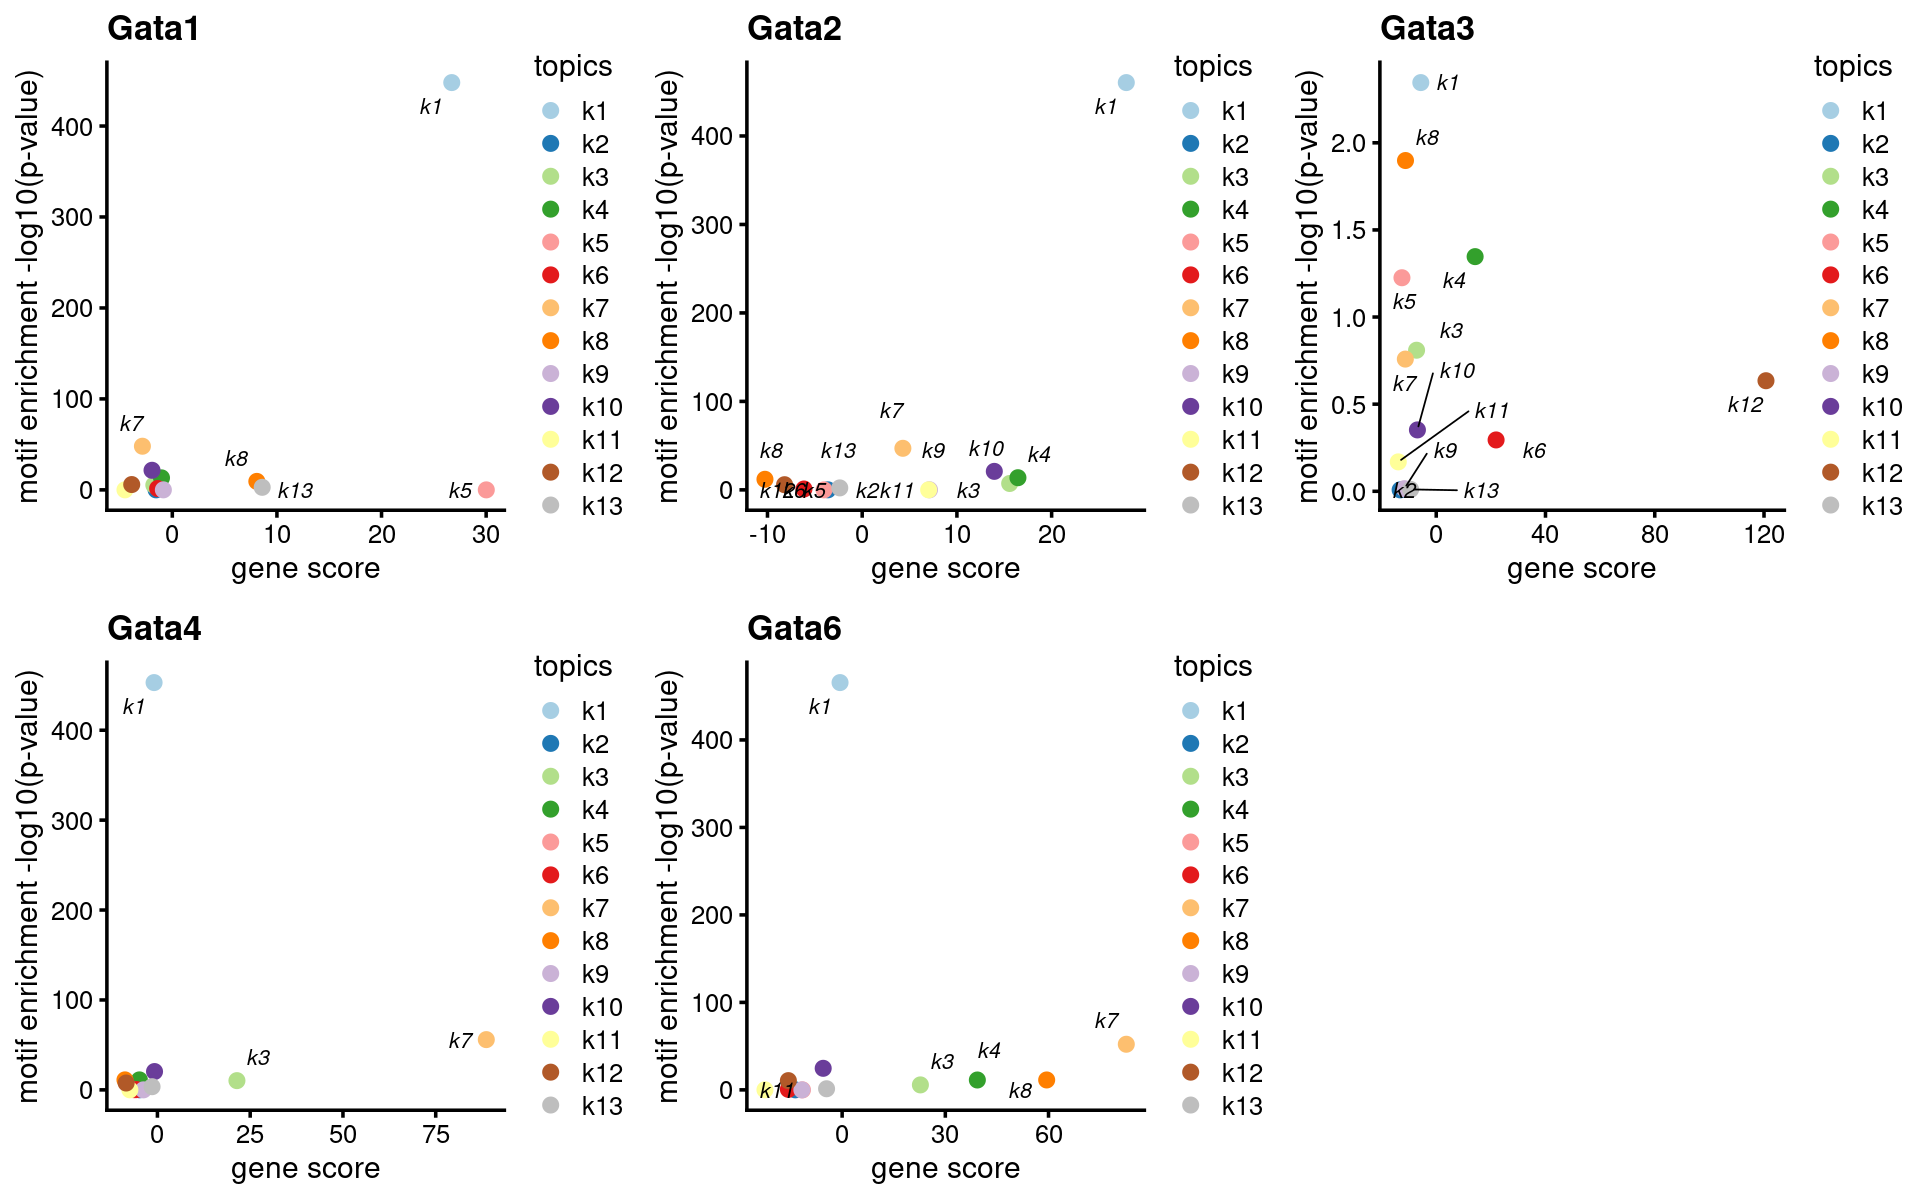
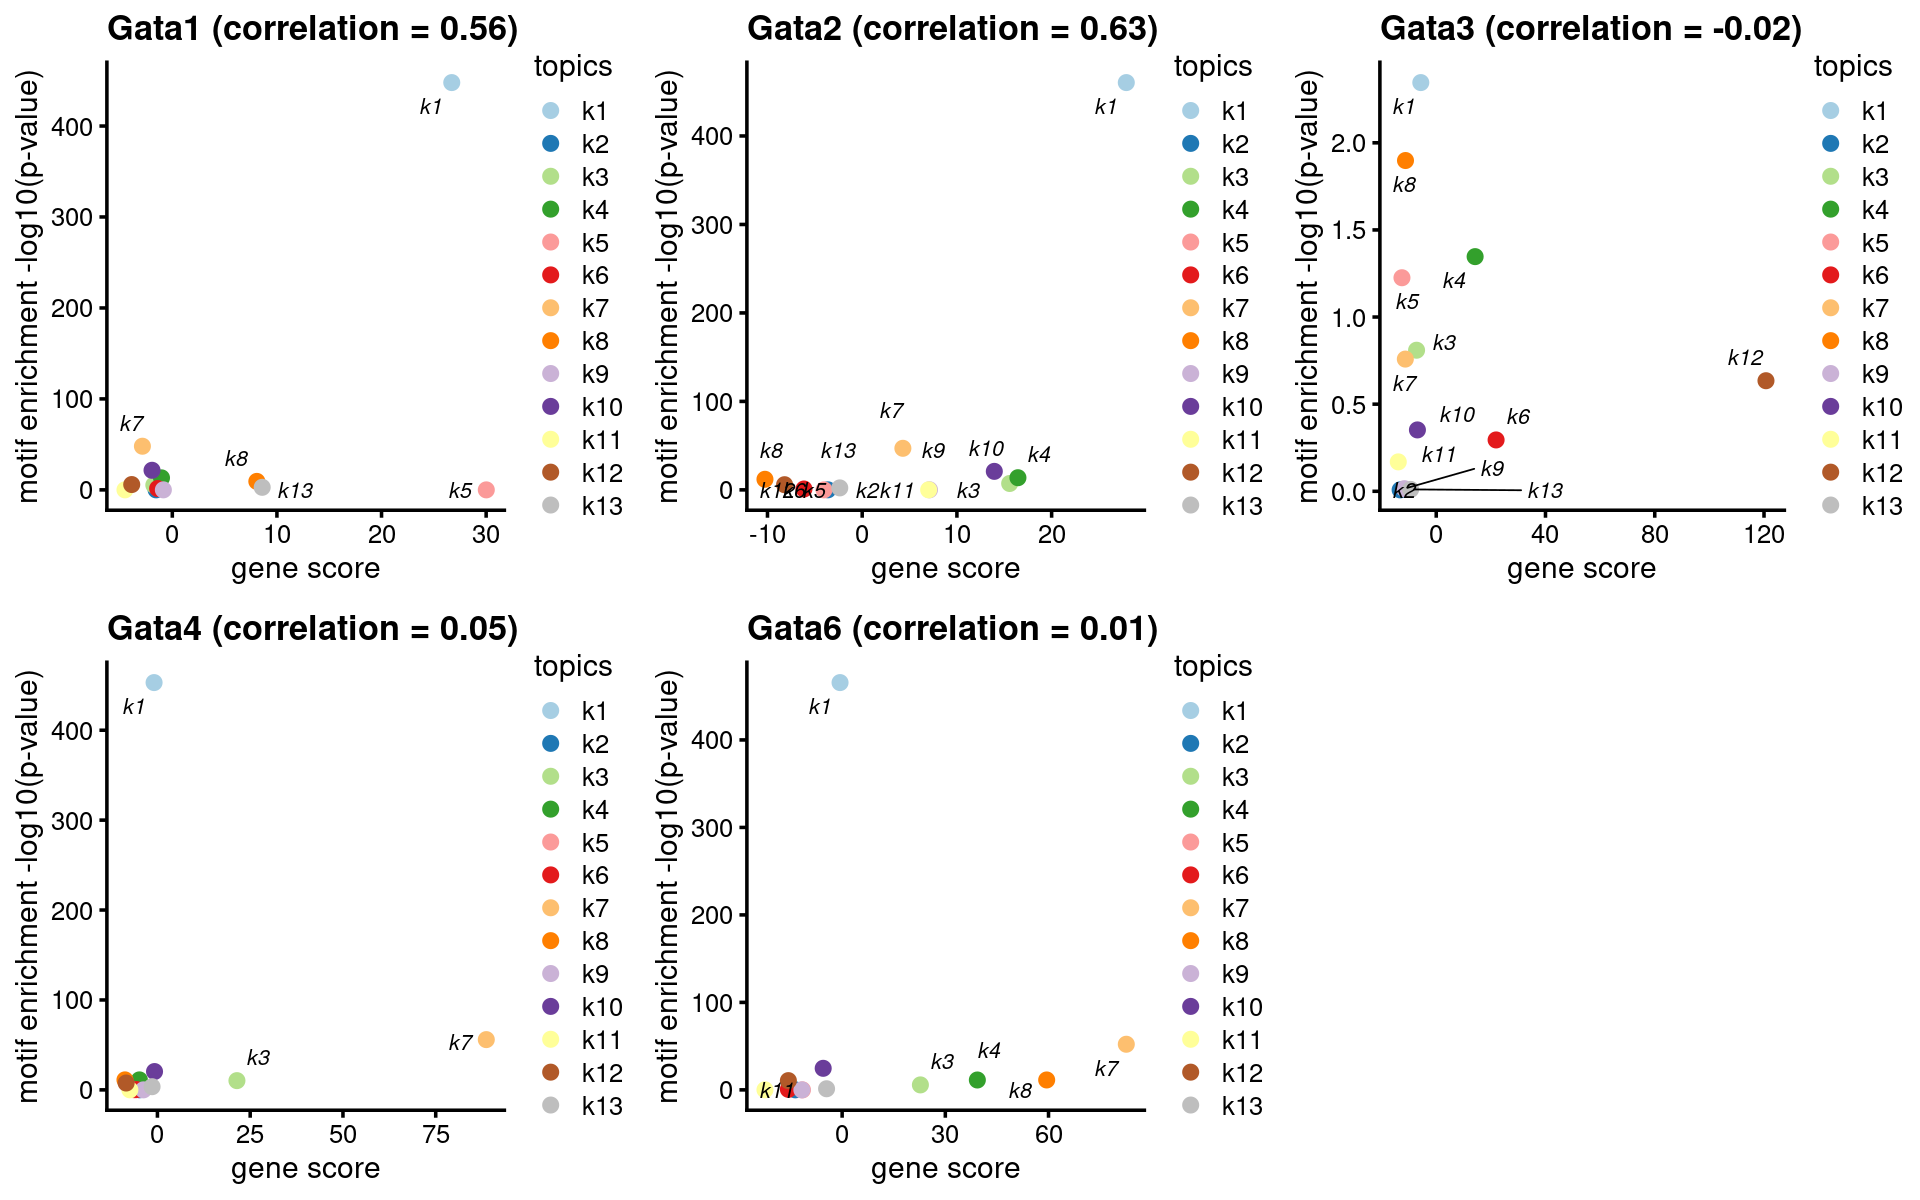
Build site.

diff --git a/docs/motif_analysis_Cusanovich2018.html b/docs/motif_analysis_Cusanovich2018.html
@@ -444,16 +444,16 @@ This reproducible <a href="http://rmarkdown.rstudio.com">R Markdown</a> analysis
 <div class="panel panel-default">
 <div class="panel-heading">
 <p class="panel-title">
-<a data-toggle="collapse" data-parent="#workflowr-checks" href="#strongRepositoryversionstrongahrefhttpsgithubcomstephenslabscATACseqtopicstreec9d674286d289488c47518606b422b0d901dde39targetblankc9d6742a"> <span class="glyphicon glyphicon-ok text-success" aria-hidden="true"></span> <strong>Repository version:</strong> <a href="https://github.com/stephenslab/scATACseq-topics/tree/c9d674286d289488c47518606b422b0d901dde39" target="_blank">c9d6742</a> </a>
+<a data-toggle="collapse" data-parent="#workflowr-checks" href="#strongRepositoryversionstrongahrefhttpsgithubcomstephenslabscATACseqtopicstree4458ed5bf26503cb8cc53fb412abe62d96fd56e5targetblank4458ed5a"> <span class="glyphicon glyphicon-ok text-success" aria-hidden="true"></span> <strong>Repository version:</strong> <a href="https://github.com/stephenslab/scATACseq-topics/tree/4458ed5bf26503cb8cc53fb412abe62d96fd56e5" target="_blank">4458ed5</a> </a>
 </p>
 </div>
[2 lines of base64/hex data omitted]
 <div class="panel-body">
 <p>
 Great! You are using Git for version control. Tracking code development and connecting the code version to the results is critical for reproducibility.
 </p>
 <p>
-The results in this page were generated with repository version <a href="https://github.com/stephenslab/scATACseq-topics/tree/c9d674286d289488c47518606b422b0d901dde39" target="_blank">c9d6742</a>. See the <em>Past versions</em> tab to see a history of the changes made to the R Markdown and HTML files.
+The results in this page were generated with repository version <a href="https://github.com/stephenslab/scATACseq-topics/tree/4458ed5bf26503cb8cc53fb412abe62d96fd56e5" target="_blank">4458ed5</a>. See the <em>Past versions</em> tab to see a history of the changes made to the R Markdown and HTML files.
 </p>
 <p>
 Note that you need to be careful to ensure that all relevant files for the analysis have been committed to Git prior to generating the results (you can use <code>wflow_publish</code> or <code>wflow_git_commit</code>). workflowr only checks the R Markdown file, but you know if there are other scripts or data files that it depends on. Below is the status of the Git repository when the results were generated:
@@ -531,6 +531,40 @@ Message
 </tr>
 </thead>
 <tbody>
+<tr>
+<td>
+Rmd
+</td>
+<td>
+<a href="https://github.com/stephenslab/scATACseq-topics/blob/4458ed5bf26503cb8cc53fb412abe62d96fd56e5/analysis/motif_analysis_Cusanovich2018.Rmd" target="_blank">4458ed5</a>
+</td>
+<td>
+kevinlkx
+</td>
+<td>
+2021-01-20
+</td>
+<td>
+added KLF/SP genes and added an option to compute correlation using -log10P
+</td>
+</tr>
+<tr>
+<td>
+html
+</td>
+<td>
+<a href="https://rawcdn.githack.com/stephenslab/scATACseq-topics/1fb78db56c388834bd95c571a4a3c8d6f631579e/docs/motif_analysis_Cusanovich2018.html" target="_blank">1fb78db</a>
+</td>
+<td>
+kevinlkx
+</td>
+<td>
+2021-01-20
+</td>
+<td>
+Build site.
+</td>
+</tr>
 <tr>
 <td>
 Rmd
@@ -939,6 +973,17 @@ Date
 <tbody>
 <tr>
 <td>
+<a href="https://github.com/stephenslab/scATACseq-topics/blob/1fb78db56c388834bd95c571a4a3c8d6f631579e/docs/figure/motif_analysis_Cusanovich2018.Rmd/motif-heatmap-1-1.png" target="_blank">1fb78db</a>
+</td>
+<td>
+kevinlkx
+</td>
+<td>
+2021-01-20
+</td>
+</tr>
+<tr>
+<td>
 <a href="https://github.com/stephenslab/scATACseq-topics/blob/1ab3d725d51a0c1546d74aacd5547e80d46059cb/docs/figure/motif_analysis_Cusanovich2018.Rmd/motif-heatmap-1-1.png" target="_blank">1ab3d72</a>
 </td>
 <td>
@@ -1001,6 +1046,17 @@ Date
 </tr>
 </thead>
 <tbody>
+<tr>
+<td>
+<a href="https://github.com/stephenslab/scATACseq-topics/blob/1fb78db56c388834bd95c571a4a3c8d6f631579e/docs/figure/motif_analysis_Cusanovich2018.Rmd/motif-heatmap-2-1.png" target="_blank">1fb78db</a>
+</td>
+<td>
+kevinlkx
+</td>
+<td>
+2021-01-20
+</td>
+</tr>
 <tr>
 <td>
 <a href="https://github.com/stephenslab/scATACseq-topics/blob/1ab3d725d51a0c1546d74aacd5547e80d46059cb/docs/figure/motif_analysis_Cusanovich2018.Rmd/motif-heatmap-2-1.png" target="_blank">1ab3d72</a>
@@ -1083,6 +1139,17 @@ Date
 <tbody>
 <tr>
 <td>
+<a href="https://github.com/stephenslab/scATACseq-topics/blob/1fb78db56c388834bd95c571a4a3c8d6f631579e/docs/figure/motif_analysis_Cusanovich2018.Rmd/motif-enrichment-ranking-plot-2-1.png" target="_blank">1fb78db</a>
+</td>
+<td>
+kevinlkx
+</td>
+<td>
+2021-01-20
+</td>
+</tr>
+<tr>
+<td>
 <a href="https://github.com/stephenslab/scATACseq-topics/blob/1ab3d725d51a0c1546d74aacd5547e80d46059cb/docs/figure/motif_analysis_Cusanovich2018.Rmd/motif-enrichment-ranking-plot-2-1.png" target="_blank">1ab3d72</a>
 </td>
 <td>
@@ -1158,6 +1225,17 @@ Date
 <tbody>
 <tr>
 <td>
+<a href="https://github.com/stephenslab/scATACseq-topics/blob/1fb78db56c388834bd95c571a4a3c8d6f631579e/docs/figure/motif_analysis_Cusanovich2018.Rmd/motif-enrichment-plot-2-1.png" target="_blank">1fb78db</a>
+</td>
+<td>
+kevinlkx
+</td>
+<td>
+2021-01-20
+</td>
+</tr>
+<tr>
+<td>
 <a href="https://github.com/stephenslab/scATACseq-topics/blob/1ab3d725d51a0c1546d74aacd5547e80d46059cb/docs/figure/motif_analysis_Cusanovich2018.Rmd/motif-enrichment-plot-2-1.png" target="_blank">1ab3d72</a>
 </td>
 <td>
@@ -1215,94 +1293,78 @@ TF_genes &lt;- intersect(toupper(motif_names), toupper(gene_names))
 cat(sprintf(&quot;%s TF genes mapped between motif names and gene symbol. \n&quot;, length(TF_genes)))</code></pre>
 <pre><code># 250 TF genes mapped between motif names and gene symbol.</code></pre>
 <p>Compute correlation between motif enrichment z-score and gene score:</p>
-<ul>
-<li>Compute motif enrichment z-scores from the motif enrichment p-values</li>
-<li>Plot motif enrichment (-log10 p-value) and correlation between motif enrichment z-score and gene scores</li>
-<li>Rank motifs by motif enrichment (-log10 p-value) and correlation between motif enrichment z-score and gene scores</li>
-</ul>
-<p><strong>Topic 1 example</strong></p>
-<pre class="r"><code>motif_gene_mapping &lt;- create_motif_gene_cor_scatterplot(motif_res, gene_scores, motif_names, gene_names, TF_genes, k = 1)</code></pre>
-<p><img src="figure/motif_analysis_Cusanovich2018.Rmd/motif-cor-plot-1.png" width="480" style="display: block; margin: auto;" /></p>
-<p>
-<button type="button" class="btn btn-default btn-xs btn-workflowr btn-workflowr-fig" data-toggle="collapse" data-target="#fig-motif-cor-plot-1">
-Past versions of motif-cor-plot-1.png
-</button>
-</p>
-<div id="fig-motif-cor-plot-1" class="collapse">
-<div class="table-responsive">
-<table class="table table-condensed table-hover">
-<thead>
-<tr>
-<th>
-Version
-</th>
-<th>
-Author
-</th>
-<th>
-Date
-</th>
-</tr>
-</thead>
-<tbody>
-<tr>
-<td>
-<a href="https://github.com/stephenslab/scATACseq-topics/blob/1ab3d725d51a0c1546d74aacd5547e80d46059cb/docs/figure/motif_analysis_Cusanovich2018.Rmd/motif-cor-plot-1.png" target="_blank">1ab3d72</a>
-</td>
-<td>
-kevinlkx
-</td>
-<td>
-2021-01-19
-</td>
-</tr>
-<tr>
-<td>
-<a href="https://github.com/stephenslab/scATACseq-topics/blob/a29293a8900803a7f7e071410ba855ed9f1a5f7f/docs/figure/motif_analysis_Cusanovich2018.Rmd/motif-cor-plot-1.png" target="_blank">a29293a</a>
-</td>
-<td>
-kevinlkx
-</td>
-<td>
-2021-01-19
-</td>
-</tr>
-<tr>
-<td>
-<a href="https://github.com/stephenslab/scATACseq-topics/blob/14eac34a602ea6bb464f6d9939c56ab2d584ffc8/docs/figure/motif_analysis_Cusanovich2018.Rmd/motif-cor-plot-1.png" target="_blank">14eac34</a>
-</td>
-<td>
-kevinlkx
-</td>
-<td>
-2021-01-19
-</td>
-</tr>
-</tbody>
-</table>
-</div>
-</div>
-<pre class="r"><code>motif_gene_mapping &lt;- motif_gene_mapping[with(motif_gene_mapping, order(motif_mlog10P*cor, decreasing = T)),]
+<p><strong>Topic 1 example</strong> * Compute motif enrichment z-scores from the motif enrichment p-values * Plot motif enrichment (-log10 p-value) and correlation between motif enrichment z-scores and gene scores * Rank motifs by motif enrichment (-log10 p-value) and correlation between motif enrichment z-score and gene scores</p>
+<pre class="r"><code>motif_gene_mapping &lt;- create_motif_gene_cor_scatterplot(motif_res, gene_scores, motif_names, gene_names, TF_genes, 
+                                                        k = 1, cor.motif = &quot;z-score&quot;)</code></pre>
+<p><img src="figure/motif_analysis_Cusanovich2018.Rmd/motif-cor-plot-1-1.png" width="480" style="display: block; margin: auto;" /></p>
+<pre class="r"><code>motif_gene_mapping &lt;- motif_gene_mapping[with(motif_gene_mapping, order(motif_mlog10P*cor.zscore, decreasing = T)),]
 
 cat(&quot;Top motifs by motif enrichment (-log10 p-value) and correlation to gene scores: \n&quot;)
 rownames(motif_gene_mapping) &lt;- 1:nrow(motif_gene_mapping)
 print(head(motif_gene_mapping, 10))</code></pre>
 <pre><code># Top motifs by motif enrichment (-log10 p-value) and correlation to gene scores: 
-#          motif  gene motif_mlog10P motif_zscore gene_score       cor
-# 1    Gata2(Zf) Gata2     460.35215     45.94025 27.8830209 0.5920248
-# 2    Gata6(Zf) Gata6     465.56368     46.20060 -0.6075940 0.2660333
-# 3    Gata4(Zf) Gata4     452.96914     45.56888 -0.9032233 0.2450204
-# 4     KLF5(Zf)  Klf5      63.18985     16.83769 20.2932849 0.4208190
-# 5     KLF1(Zf)  Klf1      66.14305     17.23547 51.7778237 0.3657063
-# 6     KLF3(Zf)  Klf3      58.76004     16.22288 23.3799000 0.3629908
-# 7     KLF6(Zf)  Klf6      56.02399     15.83131 14.6687082 0.3115715
-# 8     Klf4(Zf)  Klf4      57.06629     15.98160 -3.7795042 0.2882401
-# 9      Sp2(Zf)   Sp2      59.80235     16.36960 28.4662015 0.2650298
-# 10 Bach1(bZIP) Bach1      23.76459     10.14637 26.3022816 0.3642947</code></pre>
+#          motif  gene motif_mlog10P motif_zscore gene_score cor.zscore
+# 1    Gata2(Zf) Gata2     460.35215     45.94025 27.8830209  0.5920248
+# 2    Gata6(Zf) Gata6     465.56368     46.20060 -0.6075940  0.2660333
+# 3    Gata4(Zf) Gata4     452.96914     45.56888 -0.9032233  0.2450204
+# 4     KLF5(Zf)  Klf5      63.18985     16.83769 20.2932849  0.4208190
+# 5     KLF1(Zf)  Klf1      66.14305     17.23547 51.7778237  0.3657063
+# 6     KLF3(Zf)  Klf3      58.76004     16.22288 23.3799000  0.3629908
+# 7     KLF6(Zf)  Klf6      56.02399     15.83131 14.6687082  0.3115715
+# 8     Klf4(Zf)  Klf4      57.06629     15.98160 -3.7795042  0.2882401
+# 9      Sp2(Zf)   Sp2      59.80235     16.36960 28.4662015  0.2650298
+# 10 Bach1(bZIP) Bach1      23.76459     10.14637 26.3022816  0.3642947
+#     cor.mlog10P
+# 1   0.629963388
+# 2   0.006659885
+# 3   0.051105474
+# 4   0.385521594
+# 5   0.562941174
+# 6   0.106165968
+# 7   0.098692064
+# 8  -0.055373875
+# 9   0.398822257
+# 10  0.373610276</code></pre>
 <ul>
-<li>Plot motif enrichment (-log10 p-value) and gene scores for GATA genes</li>
+<li>Plot motif enrichment (-log10 p-value) and correlation between motif enrichment (-log10 p-value) and gene scores</li>
+<li>Rank motifs by motif enrichment (-log10 p-value) and correlation between motif enrichment (-log10 p-value) and gene scores</li>
 </ul>
-<pre class="r"><code>GATA_genes &lt;- grep(&quot;GATA&quot;, TF_genes, ignore.case=T, value=T)
+<pre class="r"><code>motif_gene_mapping &lt;- create_motif_gene_cor_scatterplot(motif_res, gene_scores, motif_names, gene_names, TF_genes, 
+                                                        k = 1, cor.motif = &quot;-log10(p-value)&quot;)</code></pre>
+<p><img src="figure/motif_analysis_Cusanovich2018.Rmd/motif-cor-plot-2-1.png" width="480" style="display: block; margin: auto;" /></p>
+<pre class="r"><code>motif_gene_mapping &lt;- motif_gene_mapping[with(motif_gene_mapping, order(motif_mlog10P*cor.mlog10P, decreasing = T)),]
+
+cat(&quot;Top motifs by motif enrichment (-log10 p-value) and correlation to gene scores: \n&quot;)
+rownames(motif_gene_mapping) &lt;- 1:nrow(motif_gene_mapping)
+print(head(motif_gene_mapping, 10))</code></pre>
+<pre><code># Top motifs by motif enrichment (-log10 p-value) and correlation to gene scores: 
+#          motif  gene motif_mlog10P motif_zscore gene_score  cor.zscore
+# 1    Gata2(Zf) Gata2    460.352151    45.940249 27.8830209  0.59202478
+# 2    Gata1(Zf) Gata1    447.757611    45.304904 26.7126627 -0.06272824
+# 3     KLF1(Zf)  Klf1     66.143050    17.235472 51.7778237  0.36570627
+# 4     KLF5(Zf)  Klf5     63.189847    16.837693 20.2932849  0.42081896
+# 5      Sp2(Zf)   Sp2     59.802350    16.369602 28.4662015  0.26502977
+# 6    Gata4(Zf) Gata4    452.969145    45.568879 -0.9032233  0.24502036
+# 7  Bach1(bZIP) Bach1     23.764594    10.146374 26.3022816  0.36429470
+# 8    KLF14(Zf) Klf14     31.538465    11.766791  0.4537105  0.11910799
+# 9    SpiB(ETS)  Spib      7.452493     5.389748 -3.0070640  0.95370507
+# 10 Tcf21(bHLH) Tcf21      8.234223     5.704582 -0.5385452  0.73531571
+#    cor.mlog10P
+# 1   0.62996339
+# 2   0.56449139
+# 3   0.56294117
+# 4   0.38552159
+# 5   0.39882226
+# 6   0.05110547
+# 7   0.37361028
+# 8   0.25921375
+# 9   0.99145723
+# 10  0.89029474</code></pre>
+<p><strong>GATA genes</strong></p>
+<ul>
+<li>Plot motif enrichment (-log10 p-value) and gene scores</li>
+</ul>
+<pre class="r"><code>GATA_genes &lt;- grep(&quot;^GATA\\d*$&quot;, TF_genes, ignore.case=T, value=T)
 
 plots &lt;- create_motif_gene_scatterplot(motif_res, gene_scores, 
                                        motif_names, gene_names, 
@@ -1335,6 +1397,17 @@ Date
 </tr>
 </thead>
 <tbody>
+<tr>
+<td>
+<a href="https://github.com/stephenslab/scATACseq-topics/blob/1fb78db56c388834bd95c571a4a3c8d6f631579e/docs/figure/motif_analysis_Cusanovich2018.Rmd/motif-gene-plot-1-1.png" target="_blank">1fb78db</a>
+</td>
+<td>
+kevinlkx
+</td>
+<td>
+2021-01-20
+</td>
+</tr>
 <tr>
 <td>
 <a href="https://github.com/stephenslab/scATACseq-topics/blob/1ab3d725d51a0c1546d74aacd5547e80d46059cb/docs/figure/motif_analysis_Cusanovich2018.Rmd/motif-gene-plot-1-1.png" target="_blank">1ab3d72</a>
@@ -1373,11 +1446,9 @@ kevinlkx
 </div>
 </div>
 <ul>
-<li>Plot motif enrichment (zscore) and gene scores for GATA genes</li>
+<li>Plot motif enrichment (zscore) and gene scores</li>
 </ul>
-<pre class="r"><code>GATA_genes &lt;- grep(&quot;GATA&quot;, TF_genes, ignore.case=T, value=T)
-
-plots &lt;- create_motif_gene_scatterplot(motif_res, gene_scores, 
+<pre class="r"><code>plots &lt;- create_motif_gene_scatterplot(motif_res, gene_scores, 
                                        motif_names, gene_names, 
                                        selected_genes = GATA_genes,
                                        y = &quot;z-score&quot;, 
@@ -1386,6 +1457,71 @@ plots &lt;- create_motif_gene_scatterplot(motif_res, gene_scores,
 
 do.call(plot_grid,plots)</code></pre>
 <p><img src="figure/motif_analysis_Cusanovich2018.Rmd/motif-gene-plot-2-1.png" width="960" style="display: block; margin: auto;" /></p>
+<p>
+<button type="button" class="btn btn-default btn-xs btn-workflowr btn-workflowr-fig" data-toggle="collapse" data-target="#fig-motif-gene-plot-2-1">
+Past versions of motif-gene-plot-2-1.png
+</button>
+</p>
+<div id="fig-motif-gene-plot-2-1" class="collapse">
+<div class="table-responsive">
+<table class="table table-condensed table-hover">
+<thead>
+<tr>
+<th>
+Version
+</th>
+<th>
+Author
+</th>
+<th>
+Date
+</th>
+</tr>
+</thead>
+<tbody>
+<tr>
+<td>
+<a href="https://github.com/stephenslab/scATACseq-topics/blob/1fb78db56c388834bd95c571a4a3c8d6f631579e/docs/figure/motif_analysis_Cusanovich2018.Rmd/motif-gene-plot-2-1.png" target="_blank">1fb78db</a>
+</td>
+<td>
+kevinlkx
+</td>
+<td>
+2021-01-20
+</td>
+</tr>
+</tbody>
+</table>
+</div>
+</div>
+<p><strong>KLF/SP genes</strong></p>
+<ul>
+<li>Plot motif enrichment (-log10 p-value) and gene scores</li>
+</ul>
+<pre class="r"><code>KLF_genes &lt;- grep(&quot;^KLF\\d*$&quot;, TF_genes, ignore.case=T, value=T)
+SP_genes &lt;- grep(&quot;^SP\\d*$&quot;, TF_genes, ignore.case=T, value=T)
+
+plots &lt;- create_motif_gene_scatterplot(motif_res, gene_scores, 
+                                       motif_names, gene_names, 
+                                       selected_genes = c(KLF_genes, SP_genes),
+                                       y = &quot;-log10(p-value)&quot;, 
+                                       colors = colors_topics,
+                                       max.overlaps = 10)
+
+do.call(plot_grid,plots)</code></pre>
+<p><img src="figure/motif_analysis_Cusanovich2018.Rmd/motif-gene-plot-3-1.png" width="960" style="display: block; margin: auto;" /></p>
+<ul>
+<li>Plot motif enrichment (zscore) and gene scores</li>
+</ul>
+<pre class="r"><code>plots &lt;- create_motif_gene_scatterplot(motif_res, gene_scores, 
+                                       motif_names, gene_names, 
+                                       selected_genes = c(KLF_genes, SP_genes),
+                                       y = &quot;z-score&quot;, 
+                                       colors = colors_topics,
+                                       max.overlaps = 10)
+
+do.call(plot_grid,plots)</code></pre>
+<p><img src="figure/motif_analysis_Cusanovich2018.Rmd/motif-gene-plot-4-1.png" width="960" style="display: block; margin: auto;" /></p>
 <br>
 <p>
 <button type="button" class="btn btn-default btn-workflowr btn-workflowr-sessioninfo" data-toggle="collapse" data-target="#workflowr-sessioninfo" style="display: block;">
